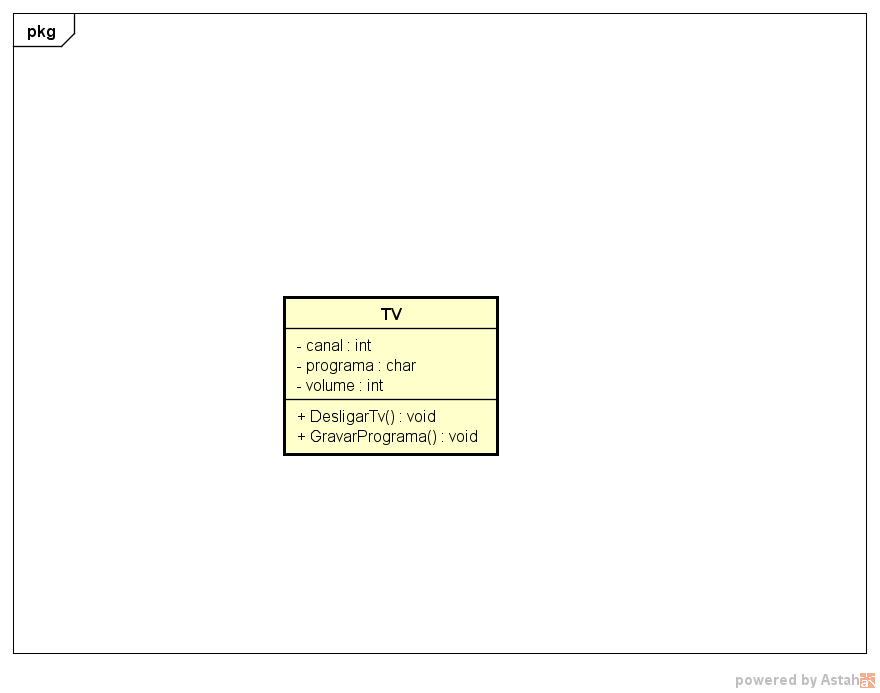
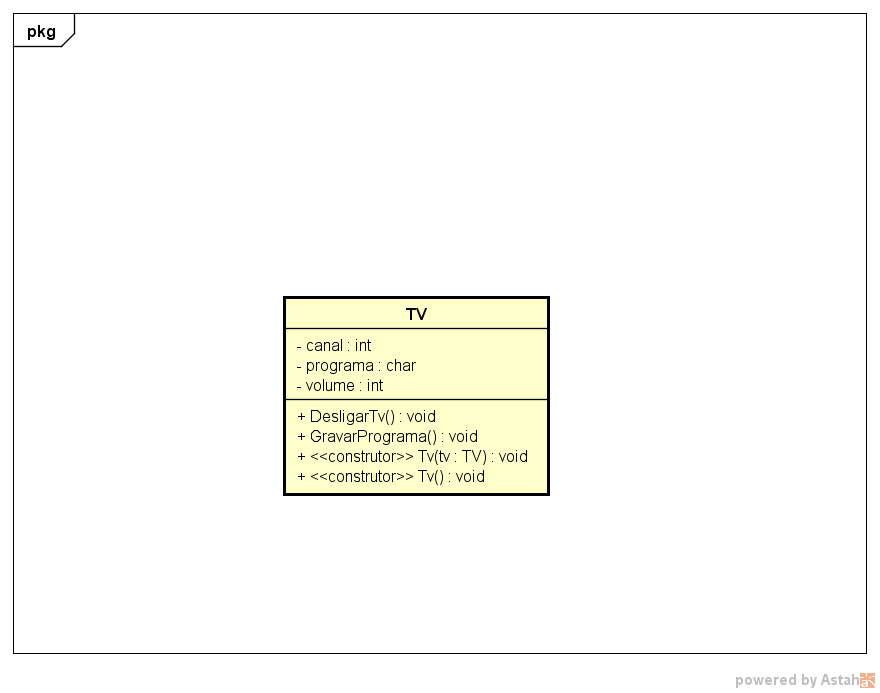
Atualizando UML, classes .h e .cpp Ainda devendo atividades

Changed region(s): [[0.3068, 0.4242, 0.6443, 0.7273], [0.4295, 0.4242, 0.4909, 0.4545]]

diff --git a/Tv.h b/Tv.h
@@ -3,9 +3,18 @@
 
 class Tv
 {
+    
+private:
+    int canal, volume;
+    char programa;
+    
 public:
     Tv();
     ~Tv();
+    void DesligarTv();
+    void GravarPrograma();
+    void Tv(tv  Tv);
+    void Tv();
 
 };
 

diff --git a/Tv.cpp b/Tv.cpp
@@ -1,10 +1,22 @@
 #include "Tv.h"
+#include <iostream>
+
+using std::cout;
 
 Tv::Tv()
 {
+    
+    canal=10;
 }
 
 Tv::~Tv()
 {
 }
+
+void Tv::Tv()
+{
+    cout<<" Desligando em 3, 2,..."<<;
+}
+
+
 

diff --git a/main.cpp b/main.cpp
@@ -1,7 +1,11 @@
 #include <stdio.h>
+using std::cout;
+
+#include "Tv.h"
 
 int main(int argc, char **argv)
 {
-	printf("hello world\n");
-	return 0;
+    Tv t1;
+    
+    t1.DesligarTv();
 }
